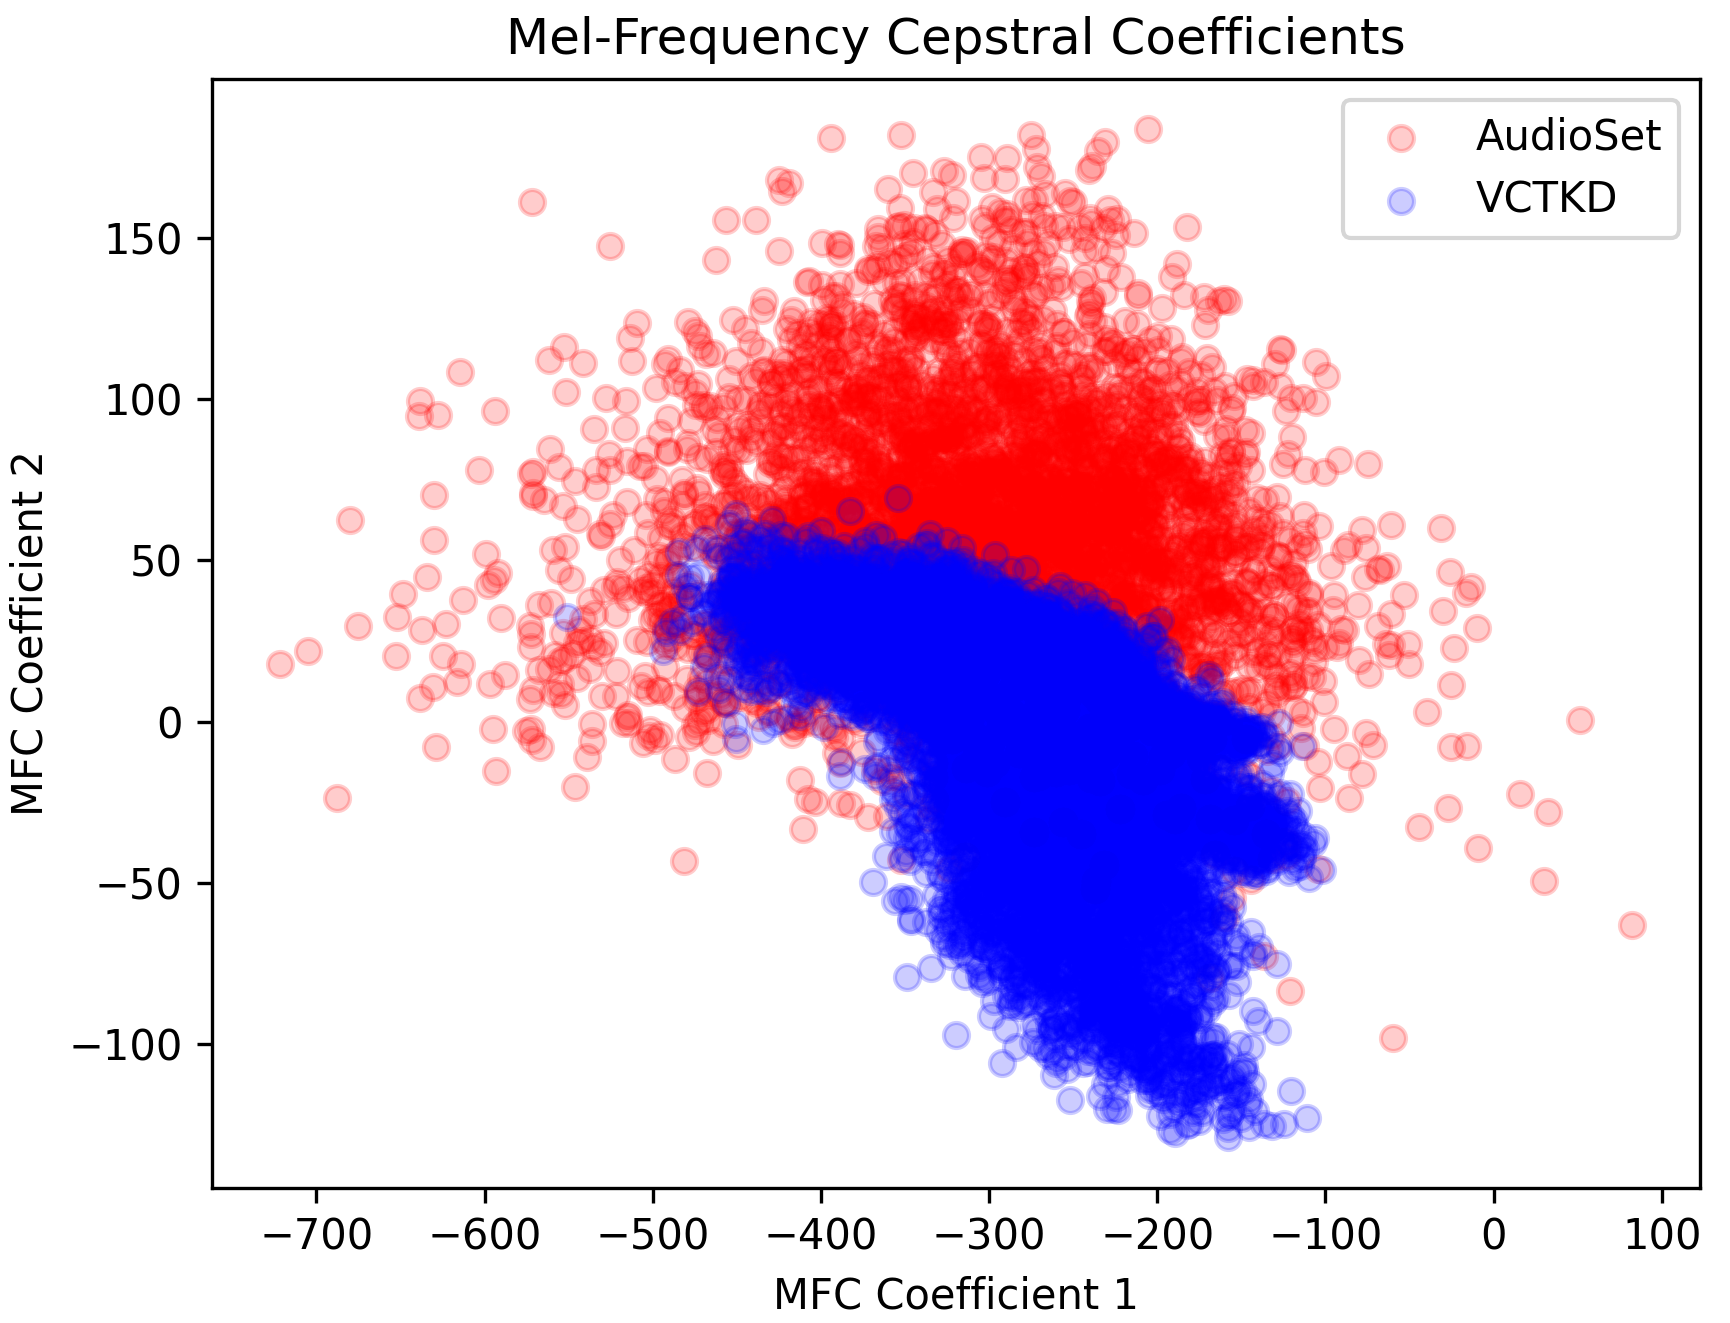
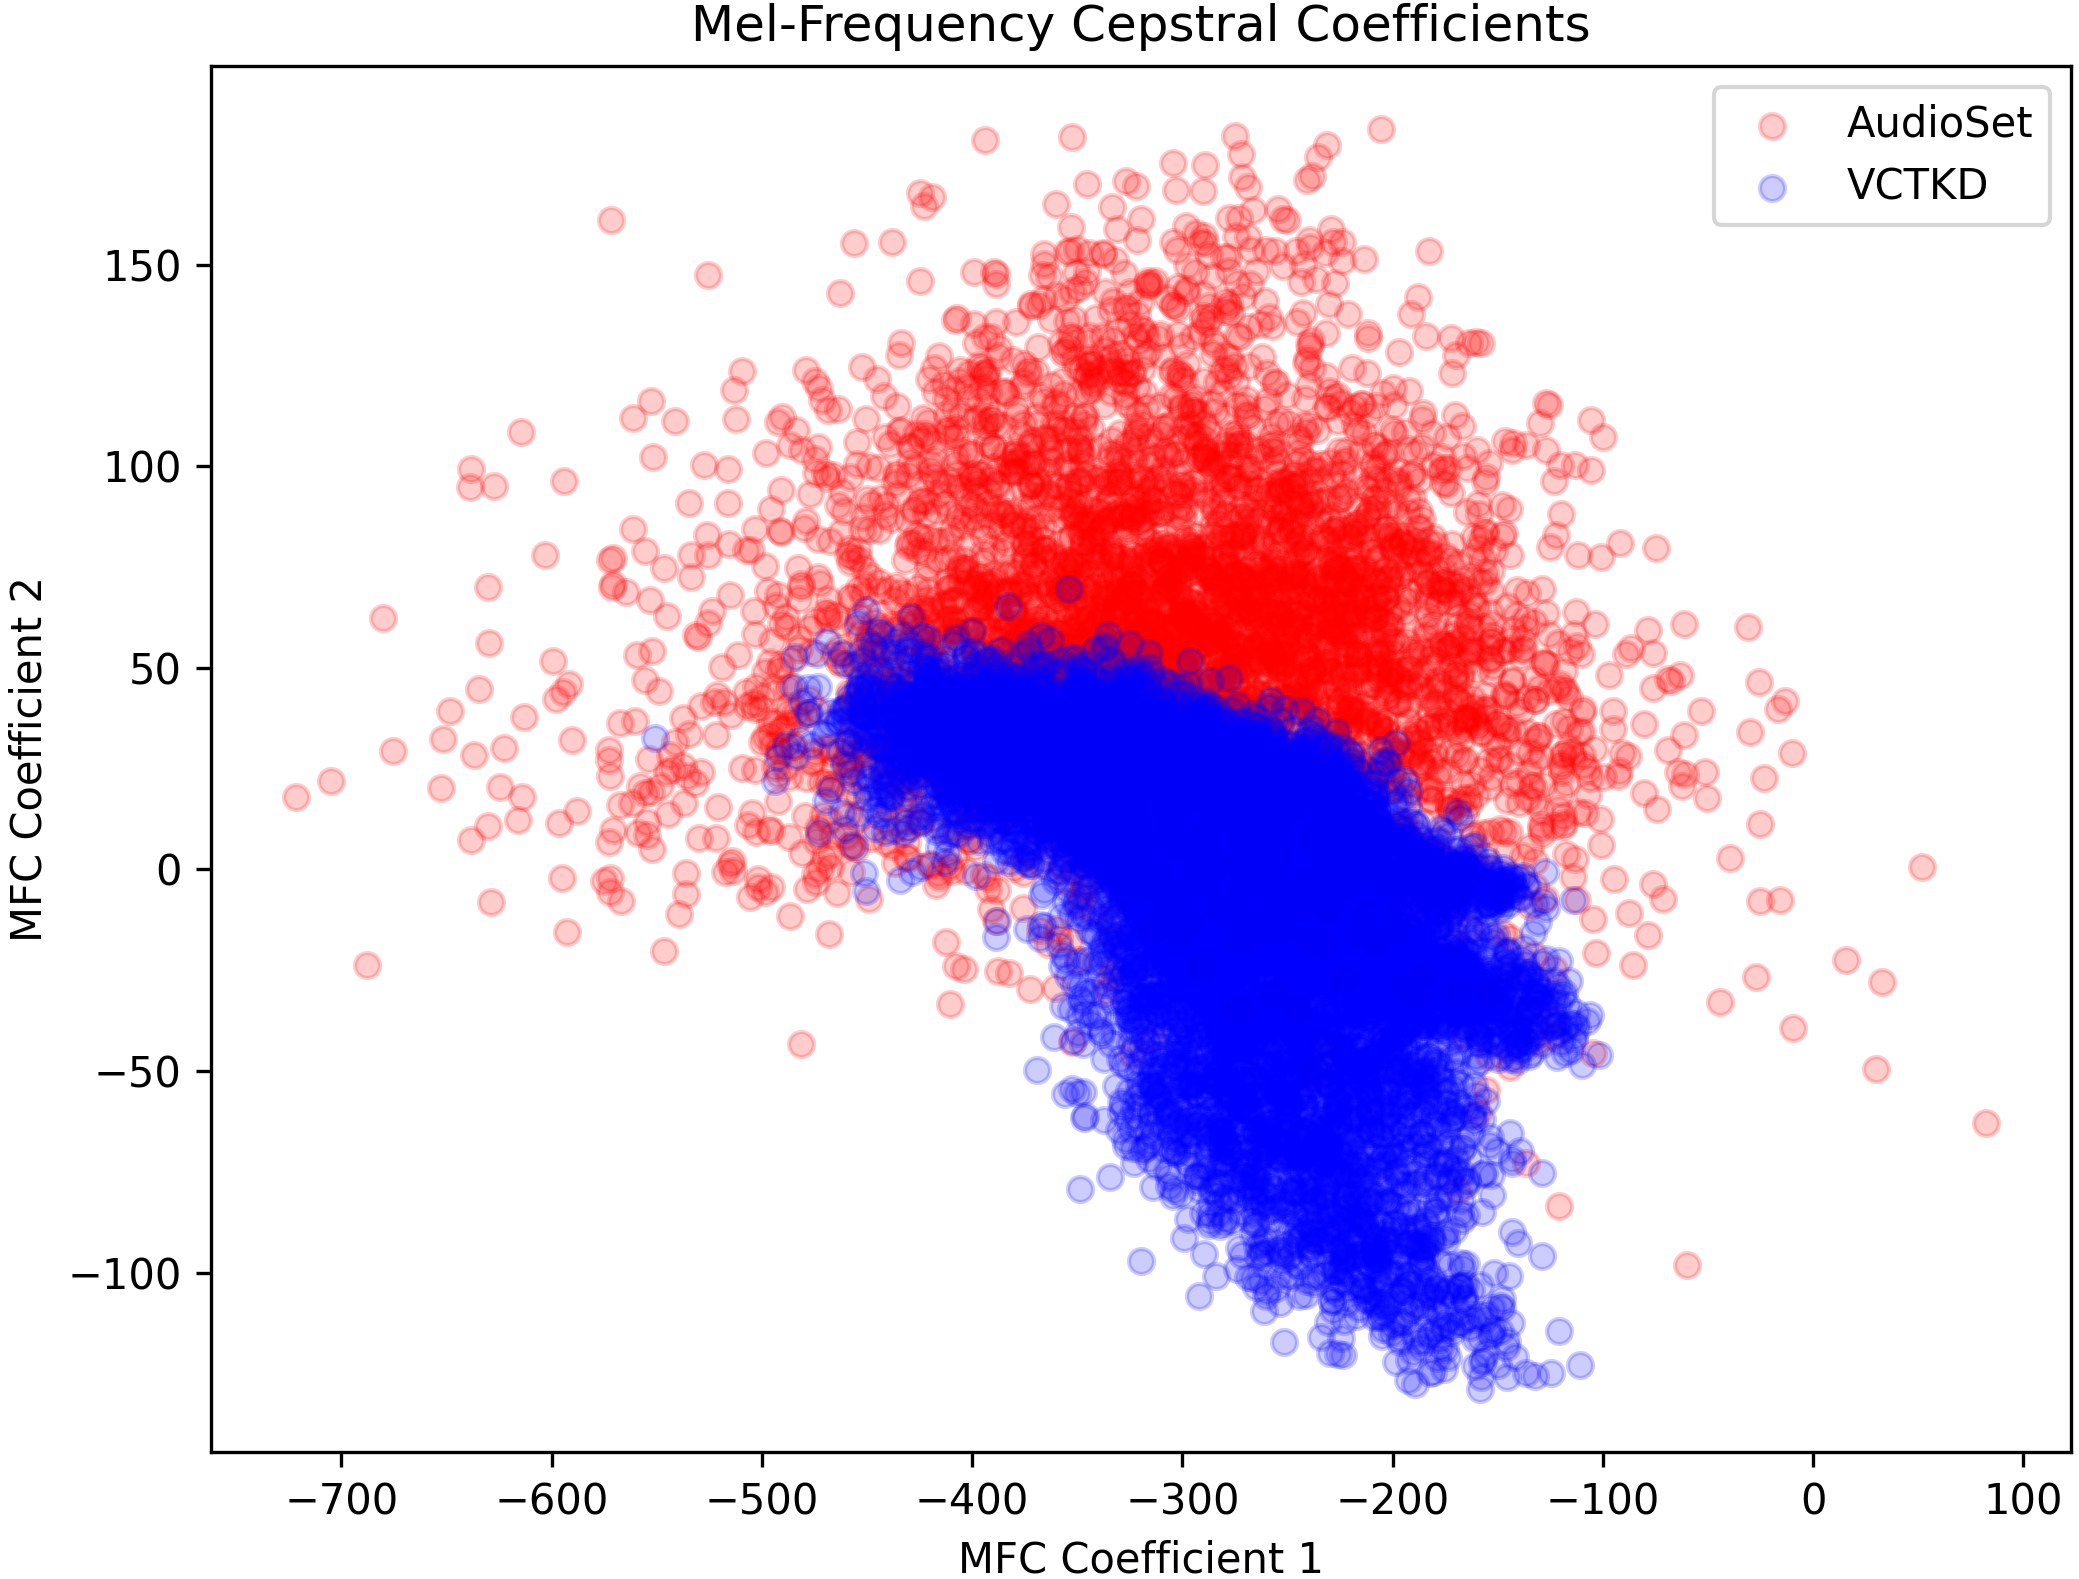
data statistics

diff --git a/gan/utils/data_stats.py b/gan/utils/data_stats.py
@@ -98,7 +98,7 @@ def create_csvs_rms():
 
         with open(f'rms{csv_filename}.csv', 'w', newline='') as file:
             writer = csv.writer(file)
-            writer.writerow(["Filename", "Zero-Crossing Rate"])
+            writer.writerow(["Filename", "Root Mean Square"])
             for filename in tqdm.tqdm(noisy_filenames):
                 wav = torchaudio.load(os.path.join(path, filename))[0].to(device)
                 # Compute the root mean square (RMS)
@@ -206,6 +206,8 @@ def plot_pitch():
     plt.savefig('pitches.png', dpi=300)
 
 def plot_zcr():
+    plt.figure(figsize=(8, 6))
+
     csvfile = open('/Users/fredmac/Library/CloudStorage/OneDrive-DanmarksTekniskeUniversitet/bachelor_project/zcr_AudioSet.csv', 'r')
     reader = csv.reader(csvfile)
     next(reader)
@@ -238,7 +240,36 @@ def plot_zcr():
     plt.title('Zero-Crossing Rate Distributions')
     plt.savefig('zcrs.png', dpi=300)
 
+def plot_rms(csv_filenames, labels):
+    # Set up the figure for plotting
+    plt.figure(figsize=(8, 6))
+    colors = ['red', 'blue']
+    # Process each CSV file
+    for csv_filename, label, color in zip(csv_filenames, labels, colors):
+        # Open and read the CSV file
+        with open(csv_filename, 'r') as csvfile:
+            reader = csv.reader(csvfile)
+            next(reader)  # Skip the header
+            rms_values = [float(row[1]) for row in reader]  # Extract RMS values from each row
+
+        # Convert list to numpy array for better handling
+        rms_array = np.array(rms_values)
+
+        # Plot the histogram of RMS values
+        plt.hist(rms_array, bins=50, density=True, alpha=0.5, label=label, color=color)  # Remove '.csv' from label
+
+    # Adding legends, labels and title to the plot
+    plt.legend(title="Dataset")
+    plt.xlim(0, 0.5)
+    plt.xlabel('Root Mean Square Value')
+    plt.ylabel('Density')
+    plt.title('Root Mean Square Distributions')
+    plt.savefig('rms_distribution.png', dpi=300)  # Save the plot as a PNG file
+    # plt.show()
+
 def plot_mfcc():
+    plt.figure(figsize=(8, 6))
+
     # create scatterplots of the first two MFCCs
     csvAS = open('/Users/fredmac/Library/CloudStorage/OneDrive-DanmarksTekniskeUniversitet/bachelor_project/reports/data_stats/mfcc_AudioSet.csv', 'r')
     readerAS = csv.reader(csvAS)
@@ -275,3 +306,8 @@ if __name__ == '__main__':
     # plot_zcr()
     # plot_pitch()
     plot_mfcc()
+
+    # filenames = ['/Users/fredmac/Library/CloudStorage/OneDrive-DanmarksTekniskeUniversitet/bachelor_project/reports/data_stats/rms_AudioSet.csv', 
+    #              '/Users/fredmac/Library/CloudStorage/OneDrive-DanmarksTekniskeUniversitet/bachelor_project/reports/data_stats/rms_VCTKD.csv']
+    # labels = ['AudioSet', 'VCTKD']
+    # plot_rms(filenames, labels)
